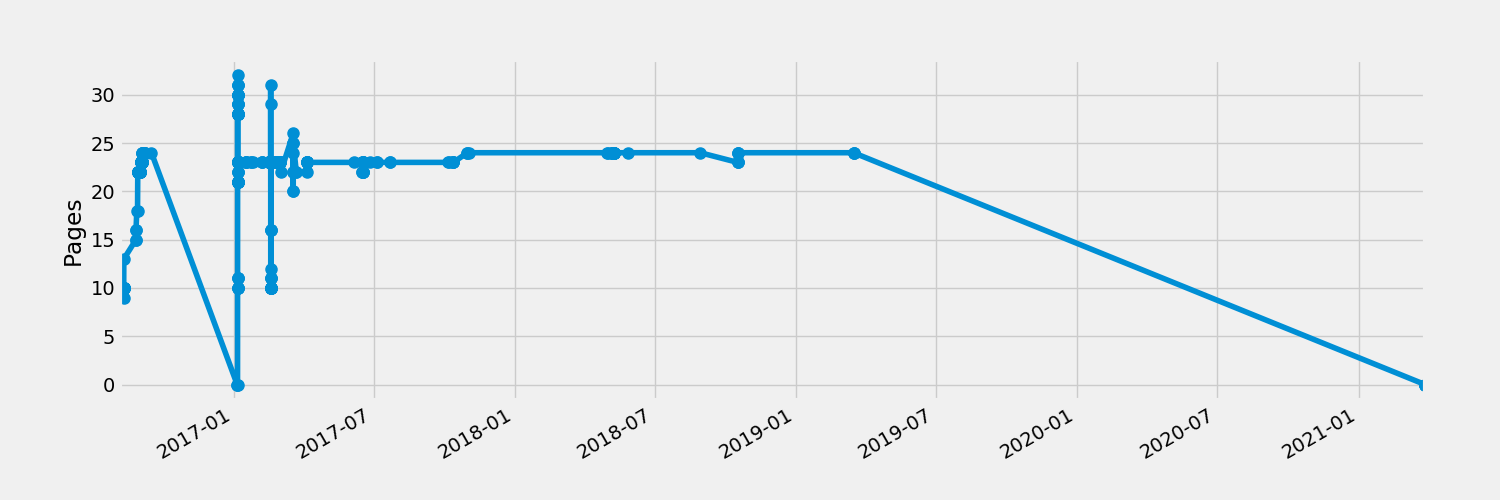
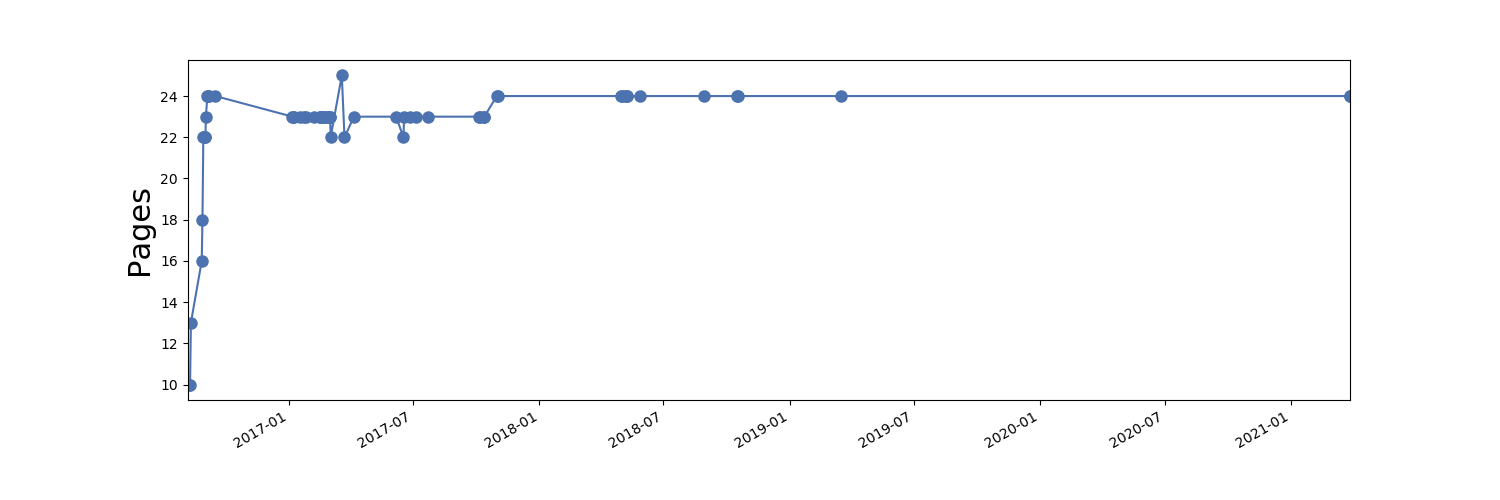
fix pdflatex

diff --git a/scripts/wordcount.py b/scripts/wordcount.py
@@ -33,10 +33,6 @@ TO DO
 2016-08-02
 """
 
-#------------------------------------------------------------------------------
-# imports
-#------------------------------------------------------------------------------
-
 ## std
 import argparse, sys, time
 import pandas as pd
@@ -44,20 +40,12 @@ import matplotlib
 matplotlib.use("Agg") # suppress the python rocketship icon popup
 import matplotlib.pyplot as plt
 
+
 # print(plt.style.available) # [u'dark_background', u'bmh', u'grayscale', u'ggplot', u'fivethirtyeight']
-plt.style.use('fivethirtyeight')
+#plt.style.use('fivethirtyeight')
+plt.style.use('seaborn-deep')
+plt.rcParams['legend.numpoints'] = 1
 plt.rcParams['figure.figsize'] = (15, 5)
-
-## my modules
-
-## local modules
-
-
-#------------------------------------------------------------------------------
-# globals
-#------------------------------------------------------------------------------
-timestamp = time.strftime('%Y-%m-%d-%Hh%M')
-GeV = 1000.
 
 
 #------------------------------------------------------------------------------
@@ -116,7 +104,7 @@ def main():
     ax = df['Words'].plot(marker='o',markersize=8)
 #    ax.set_xlabel("Date")
     ax.set_xlabel("")
-    ax.set_ylabel("Words")
+    ax.set_ylabel("Words", fontsize=22)
     fig = ax.get_figure()
     fig.savefig('words.png')
     plt.close()
@@ -127,7 +115,7 @@ def main():
     ax = df['Pages'].plot(marker='o',markersize=8)
 #    ax.set_xlabel("Date")
     ax.set_xlabel("")
-    ax.set_ylabel("Pages")
+    ax.set_ylabel("Pages", fontsize=22)
     fig = ax.get_figure()
     fig.savefig('pages.png')
     plt.close()
@@ -155,5 +143,3 @@ def tprint(s, log=None):
 
 #------------------------------------------------------------------------------
 if __name__ == '__main__': main()
-
-# EOF

diff --git a/templates/default_template.tex b/templates/default_template.tex
@@ -1,8 +1,20 @@
 \documentclass[$if(fontsize)$$fontsize$,$endif$$if(lang)$$lang$,$endif$$if(papersize)$$papersize$,$endif$$for(classoption)$$classoption$$sep$,$endfor$]{$documentclass$}
 
-%\newenvironment{CSLReferences}%
-%  {}%
-%  {\par}
+\newlength{\cslhangindent}
+\setlength{\cslhangindent}{1.5em}
+\newlength{\csllabelwidth}
+\setlength{\csllabelwidth}{3em}
+\newenvironment{CSLReferences}[2] % #1 hanging-ident, #2 entry spacing
+ {% don't indent paragraphs
+  \setlength{\parindent}{0pt}
+  % turn on hanging indent if param 1 is 1
+  \ifodd #1 \everypar{\setlength{\hangindent}{\cslhangindent}}\ignorespaces\fi
+  % set entry spacing
+  \ifnum #2 > 0
+  \setlength{\parskip}{#2\baselineskip}
+  \fi
+ }%
+ {}
 
 %% extra packages
 $for(extrapackages)$

diff --git a/scripts/transform_tex.py b/scripts/transform_tex.py
@@ -156,5 +156,3 @@ def tprint(s, log=None):
 
 #------------------------------------------------------------------------------
 if __name__ == '__main__': main()
-
-# EOF
